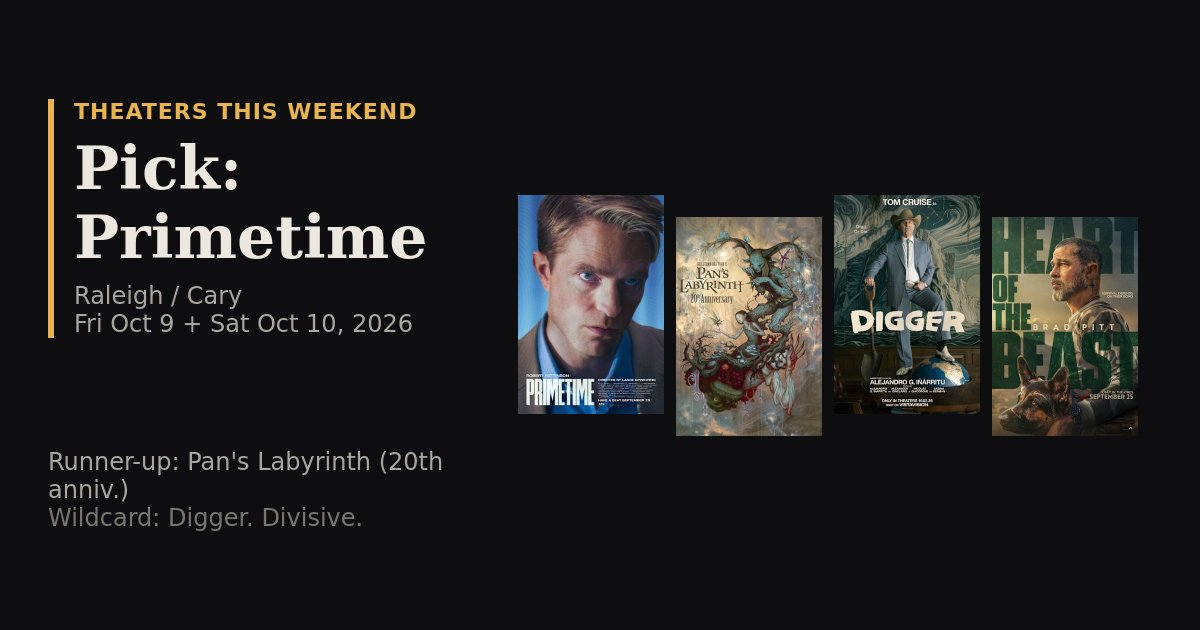
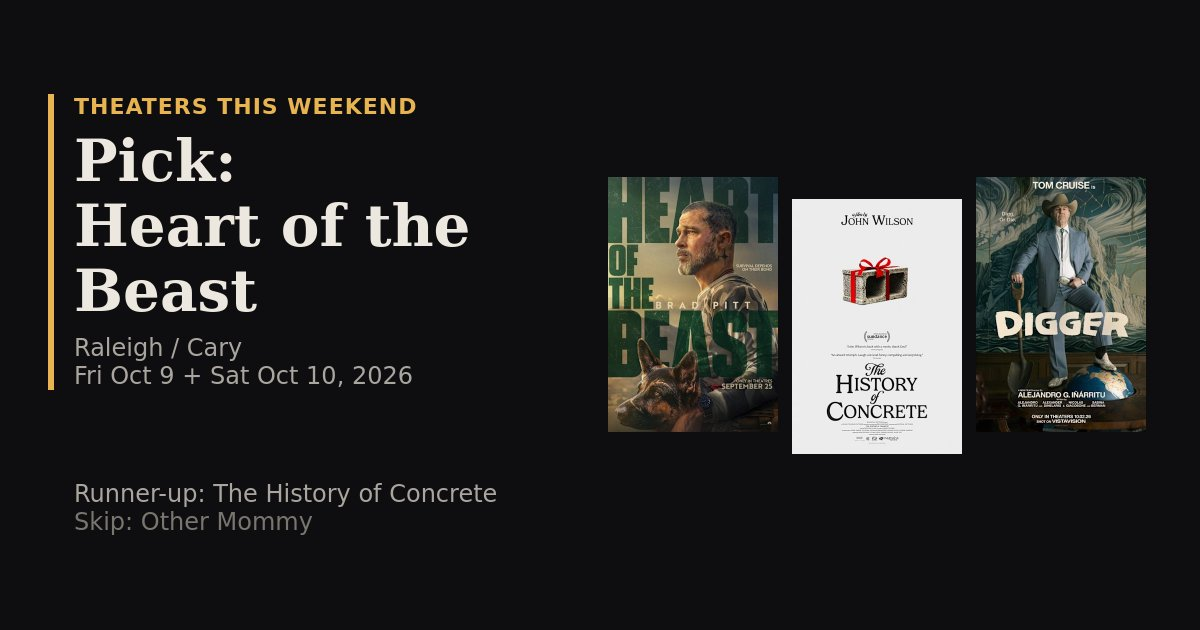
theaters 2026-10-09: repick after Primetime seen

Changed region(s): [[0.4317, 0.2714, 0.9558, 0.7238], [0.0308, 0.1508, 0.4008, 0.6333], [0.0308, 0.7238, 0.4008, 0.8444]]

diff --git a/theaters-2026-10-09.html b/theaters-2026-10-09.html
@@ -1,10 +1,10 @@
 <!doctype html><html lang="en"><head><meta charset="utf-8"><meta name="viewport" content="width=device-width,initial-scale=1">
 <title>Theaters: Oct 9-10</title>
-<meta name="description" content="Pick: Primetime. Runner-up: Pan's Labyrinth 20th anniversary. Showtimes for Cary, Garner, Holly Springs, Raleigh.">
-<meta property="og:type" content="website"><meta property="og:title" content="Theaters this weekend: Primetime">
-<meta property="og:description" content="Pick: Primetime. Runner-up: Pan's Labyrinth 20th anniv. Wildcard: Digger. Showtimes inside.">
-<meta property="og:url" content="https://niggerfaggot.club/theaters-2026-10-09.html"><meta property="og:image" content="https://niggerfaggot.club/og/theaters-2026-10-09.jpg"><meta property="og:image:width" content="1200"><meta property="og:image:height" content="630">
-<meta name="twitter:card" content="summary_large_image"><meta name="twitter:image" content="https://niggerfaggot.club/og/theaters-2026-10-09.jpg">
+<meta name="description" content="Pick: Heart of the Beast. Runner-up: The History of Concrete. Showtimes for Cary, Garner, Holly Springs, Raleigh.">
+<meta property="og:type" content="website"><meta property="og:title" content="Theaters this weekend: Heart of the Beast">
+<meta property="og:description" content="Pick: Heart of the Beast. Runner-up: The History of Concrete. Wildcard: Digger. Showtimes inside.">
+<meta property="og:url" content="https://niggerfaggot.club/theaters-2026-10-09.html"><meta property="og:image" content="https://niggerfaggot.club/og/theaters-2026-10-09.jpg?v=2"><meta property="og:image:width" content="1200"><meta property="og:image:height" content="630">
+<meta name="twitter:card" content="summary_large_image"><meta name="twitter:image" content="https://niggerfaggot.club/og/theaters-2026-10-09.jpg?v=2">
 <style>
 :root{--bg:#f6f4ef;--fg:#1b1a18;--mute:#6b675f;--line:#ddd8cc;--acc:#a8661a;--card:#fffdf8}
 @media (prefers-color-scheme:dark){:root{--bg:#0e0e10;--fg:#ece8df;--mute:#9a958b;--line:#2a2927;--acc:#e8b450;--card:#161618}}
@@ -23,17 +23,17 @@ th,td{text-align:left;padding:7px 8px;border-bottom:1px solid var(--line)}th{col
 h4{margin:1.2rem 0 .2rem}ul{padding-left:1.1rem}li{margin:.35rem 0}.small{color:var(--mute);font-size:.85rem}
 </style></head><body><main>
 <div class="kicker">Theaters · Raleigh/Cary · Fri Oct 9 + Sat Oct 10, 2026</div>
-<h1>Go see Primetime.</h1>
-<div class="bluf"><b>BLUF:</b> Primetime, 5:30 or 8:15 at Fenton. Pattinson as Chris Hansen, A24, Ari Aster producing, deadpan dark satire, 89% RT. Runner-up is the Pan's Labyrinth 20th anniversary re-release at Regal. No new Wes Anderson this week.</div>
-<p>Thin slate otherwise. The two biggest new openings are a Colleen Hoover adaptation (Verity, 41% RT, C+ CinemaScore) and a jump-scare horror movie with no reviews yet. Primetime is in its third weekend, so this is probably the last weekend it has good evening times everywhere.</p>
-<h2>Ranked</h2><article class="film"><img src="theaters/2026-10-09/primetime.jpg" alt="Primetime poster" width="400" height="600"><div><h3>Primetime <span class="tag">PICK</span></h3><p class="meta">1h50m · R · Lance Oppenheim · A24, produced by Ari Aster</p><p class="hook">Robert Pattinson as Chris Hansen in 2006, building To Catch a Predator, until the show eats itself.</p><p class="scores">RT 89% · Metacritic 69 · IMDb 7.0 · Letterboxd 3.8 · CinemaScore n/a · 3rd weekend</p><p>Dead center of the lane. Deadpan dark comedy with horror-style shock cuts, aimed at reality TV and gotcha journalism. Boston Globe compares it to To Die For and Nightcrawler. Main knock: gets busy and loses steam in the last act, and the subject matter is grim. Not a cute date movie, a good one.</p></div></article><article class="film"><img src="theaters/2026-10-09/pans.jpg" alt="Pan's Labyrinth (20th anniversary) poster" width="400" height="600"><div><h3>Pan's Labyrinth (20th anniversary) <span class="tag">RUNNER-UP</span></h3><p class="meta">1h58m · R · Guillermo del Toro · Spanish, subtitled</p><p class="hook">1944 Spain. A girl escapes her fascist stepfather into a fairy-tale underworld that is worse.</p><p class="scores">RT 95% / 91% audience · Metacritic 98</p><p>Re-release, not a remake, so it clears the filter. Elevated dark fantasy-horror with a real auteur behind it. If you've only seen it on a TV, this is the better night than most of the new stuff. Limited showings, mostly Regal.</p></div></article><article class="film"><img src="theaters/2026-10-09/digger.jpg" alt="Digger poster" width="400" height="600"><div><h3>Digger <span class="tag">WILDCARD</span></h3><p class="meta">2h9m · R · Alejandro G. Iñárritu</p><p class="hook">Tom Cruise in prosthetics as an oil tycoon trying to undo a global catastrophe he caused.</p><p class="scores">RT 52% / 71% audience · CinemaScore C+ · opened $8M on a reported $130M+ budget</p><p>On paper it's exactly your kind of swing: original, auteur, Strangelove-style satire. In practice critics split hard. IndieWire calls it detached, BBC loved it as a love-it-or-hate-it folly. There's a 10-minute climate monologue everyone mentions. Go only if you want to argue about it on the drive home. It'll lose screens fast.</p></div></article><article class="film"><img src="theaters/2026-10-09/concrete.jpg" alt="The History of Concrete poster" width="400" height="600"><div><h3>The History of Concrete</h3><p class="meta">1h42m · John Wilson (How To with John Wilson)</p><p class="hook">Wilson takes a Hallmark-movie writing workshop and tries to use it to pitch a documentary about concrete.</p><p class="scores">RT 97% / 75% audience · Metacritic 81 · Letterboxd 4.0</p><p>Funniest thing playing, and it's a doc. Only at Alamo Raleigh: Fri 6:00, Sat 7:00 and 10:00. Strong pick if you've seen Primetime.</p></div></article><article class="film"><img src="theaters/2026-10-09/beast.jpg" alt="Heart of the Beast poster" width="400" height="600"><div><h3>Heart of the Beast</h3><p class="meta">1h41m · PG-13 · David Ayer</p><p class="hook">Retired Special Forces vet (Brad Pitt) and his combat dog survive a plane crash in the Alaska bush.</p><p class="scores">RT 85% / 94% audience · Metacritic 69 · CinemaScore A-</p><p>The original crowd-pleaser of the slate. Audiences love it. It's a sincere survival-and-dog movie, no directorial voice to speak of. Fine if Bekah wants the easy one. Expect to cry about the dog.</p></div></article><article class="film"><img src="theaters/2026-10-09/mommy.jpg" alt="Other Mommy poster" width="400" height="600"><div><h3>Other Mommy</h3><p class="meta">1h33m · R · Rob Savage · Jessica Chastain · prod. James Wan</p><p class="hook">A monster poses as a kid's mother. Opens this Friday.</p><p class="scores">No critic scores posted yet</p><p>Savage says it has about 50 jump scares. That's the Blumhouse lane, not the Eggers/Aster lane. Skip unless reviews surprise.</p></div></article>
-<p class="small"><b>Cut on the rules:</b> The Social Reckoning (Sorkin's Social Network follow-up), Resident Evil (reboot, even at 96%), Practical Magic 2, Spider-Man: Brand New Day, Endgame re-release, Angel and the Badman (remake), Forgotten Island (animated). <b>Cut on quality:</b> Verity (Michael Showalter, 41% RT, Metacritic 45, C+).</p>
+<h1>Heart of the Beast, or stay home.</h1>
+<div class="bluf"><b>BLUF:</b> Heart of the Beast, 7:05 at Regal White Oak. It's the only new movie with a 94% audience score and an A- CinemaScore, which makes it the safe date night. If you want your movie instead, it's The History of Concrete at Alamo. No new Wes Anderson.</div>
+<p>Thin slate. You've already seen Primetime and Resident Evil. The biggest new openings are a Colleen Hoover adaptation (Verity, 41% RT, C+ CinemaScore) and Other Mommy, which reviewed badly.</p>
+<h2>Ranked</h2><article class="film"><img src="theaters/2026-10-09/beast.jpg" alt="Heart of the Beast poster" width="400" height="600"><div><h3>Heart of the Beast <span class="tag">PICK</span></h3><p class="meta">1h41m · PG-13 · David Ayer (Fury)</p><p class="hook">Retired Special Forces vet (Brad Pitt) and his combat dog survive a plane crash in the Alaska bush.</p><p class="scores">RT 85% / 94% audience · Metacritic 69 · CinemaScore A-</p><p>The pick that works for both of you. Original, not a franchise, and the audience numbers are the best on the slate. It's a sincere survival-and-dog movie with no real directorial voice, so it won't be your favorite, but it's the opposite of Primetime: warm, simple, built for a crowd. Bekah: high odds. Expect to cry about the dog.</p></div></article><article class="film"><img src="theaters/2026-10-09/concrete.jpg" alt="The History of Concrete poster" width="400" height="600"><div><h3>The History of Concrete <span class="tag">RUNNER-UP</span></h3><p class="meta">1h42m · John Wilson (How To with John Wilson)</p><p class="hook">Wilson takes a Hallmark-movie writing workshop and tries to use it to pitch a documentary about concrete.</p><p class="scores">RT 97% / 75% audience · Metacritic 81 · Letterboxd 4.0</p><p>Best movie playing for your taste. Deadpan, weird, funny, and warmer than Primetime. Only at Alamo Raleigh. Bekah: depends on whether she liked the HBO show. If she didn't, skip it.</p></div></article><article class="film"><img src="theaters/2026-10-09/digger.jpg" alt="Digger poster" width="400" height="600"><div><h3>Digger <span class="tag">WILDCARD</span></h3><p class="meta">2h9m · R · Alejandro G. Iñárritu</p><p class="hook">Tom Cruise in prosthetics as an oil tycoon trying to undo a global catastrophe he caused.</p><p class="scores">RT 52% / 71% audience · CinemaScore C+ · opened $8M on a reported $130M+ budget</p><p>Original auteur satire, on paper right in your lane. Critics split hard, audiences gave it a C+, and there's a 10-minute climate monologue everyone mentions. Bekah: low odds. Primetime already taught that lesson.</p></div></article><article class="film"><img src="theaters/2026-10-09/mommy.jpg" alt="Other Mommy poster" width="400" height="600"><div><h3>Other Mommy</h3><p class="meta">1h33m · R · Rob Savage · Jessica Chastain · prod. James Wan</p><p class="hook">A monster poses as a little girl's mother. Opens Friday.</p><p class="scores">Early reviews 1.5 to 2.5 out of 5 · RT score not posted yet</p><p>Reviews landed Wednesday and they're bad: predictable jump scares, weak CGI, a finale that got laughs. Chastain is the one thing people praise. Skip.</p></div></article>
+<p class="small"><b>Already seen:</b> Primetime, Resident Evil, Toy Story 5. <b>Cut:</b> The Social Reckoning (Social Network follow-up, 64% RT, fails the franchise test), Practical Magic 2, Angel and the Badman (remake), Verity (41% RT, C+). Spider-Man: Brand New Day passes the new franchise test on scores (90/97) if you haven't seen it. <b>Re-releases:</b> Pan's Labyrinth 20th anniversary is at Regal if you ever want it.</p>
 <h2>Showtimes</h2>
-<p class="small">Evening shows only, closest theater first. Times from Atom Tickets and Fandango, pulled Thursday. *AMC Holly Springs is a full dine-in theater, same format as CinéBistro, so it's last resort.</p>
-<h4>Primetime</h4><div class="tw"><table><thead><tr><th>Theater</th><th>Fri 10/9</th><th>Sat 10/10</th></tr></thead><tbody><tr><td>Paragon Fenton, Cary</td><td>5:30 · 8:15</td><td>5:30 · 8:15</td></tr><tr><td>Regal White Oak, Garner</td><td>6:20 · 9:20</td><td>6:20 · 9:20</td></tr><tr><td>AMC Dine-In Holly Springs*</td><td>7:15 · 10:15</td><td>7:15 · 10:15</td></tr><tr><td>Regal Crossroads, Cary</td><td>6:30 · 9:30</td><td>6:30 · 9:30</td></tr><tr><td>Regal North Hills, Raleigh</td><td>6:10 · 9:00</td><td>6:30 · 9:15</td></tr><tr><td>Alamo Drafthouse Raleigh</td><td>6:45 · 9:45</td><td>7:15 · 10:30</td></tr></tbody></table></div>
-<h4>Pan's Labyrinth 20th</h4><div class="tw"><table><thead><tr><th>Theater</th><th>Fri 10/9</th><th>Sat 10/10</th></tr></thead><tbody><tr><td>Paragon Fenton, Cary</td><td>not listed</td><td>not listed</td></tr><tr><td>Regal White Oak, Garner</td><td>7:10 · 10:20</td><td>7:10 · 10:20</td></tr><tr><td>AMC Dine-In Holly Springs</td><td>not playing</td><td>not playing</td></tr><tr><td>Regal Crossroads, Cary</td><td>7:15 · 10:35</td><td>7:15 · 10:35</td></tr><tr><td>Regal North Hills, Raleigh</td><td>7:00</td><td>7:00</td></tr><tr><td>Alamo Drafthouse Raleigh</td><td>7:15</td><td>2:15 only</td></tr></tbody></table></div>
+<p class="small">Evening shows only, closest theater first. Fenton isn't showing Heart of the Beast on Fandango. Times from Atom Tickets and Fandango, pulled Thursday. *AMC Holly Springs is a full dine-in theater, same format as CinéBistro, so it's last resort.</p>
+<h4>Heart of the Beast</h4><div class="tw"><table><thead><tr><th>Theater</th><th>Fri 10/9</th><th>Sat 10/10</th></tr></thead><tbody><tr><td>Paragon Fenton, Cary</td><td>not listed</td><td>not listed</td></tr><tr><td>Regal White Oak, Garner</td><td>7:05 · 9:45</td><td>7:05 · 9:45</td></tr><tr><td>AMC Dine-In Holly Springs*</td><td>7:45 · 10:30</td><td>7:45 · 10:30</td></tr><tr><td>Regal Crossroads, Cary</td><td>5:50 · 8:40</td><td>5:50 · 8:40</td></tr><tr><td>Regal North Hills, Raleigh</td><td>6:45 · 9:20</td><td>6:45 · 9:20</td></tr><tr><td>Alamo Drafthouse Raleigh</td><td>6:15 · 9:15</td><td>6:00 · 9:00</td></tr></tbody></table></div>
+<h4>The History of Concrete</h4><div class="tw"><table><thead><tr><th>Theater</th><th>Fri 10/9</th><th>Sat 10/10</th></tr></thead><tbody><tr><td>Alamo Drafthouse Raleigh</td><td>6:00 (4:30 matinee)</td><td>7:00 · 10:00</td></tr><tr><td>Everywhere else</td><td>not playing</td><td>not playing</td></tr></tbody></table></div>
 <h4>Digger</h4><div class="tw"><table><thead><tr><th>Theater</th><th>Fri 10/9</th><th>Sat 10/10</th></tr></thead><tbody><tr><td>Paragon Fenton, Cary</td><td>11:15a only</td><td>11:15a only</td></tr><tr><td>Regal White Oak, Garner</td><td>matinees only</td><td>matinees only</td></tr><tr><td>AMC Dine-In Holly Springs*</td><td>7:00 · 10:15</td><td>7:00 · 10:15</td></tr><tr><td>Regal Crossroads, Cary</td><td>6:40 · 10:00</td><td>6:40 · 10:00</td></tr><tr><td>Regal North Hills, Raleigh</td><td>6:25 · 9:30</td><td>6:25 · 9:30</td></tr><tr><td>Alamo Drafthouse Raleigh</td><td>7:00 · 9:00</td><td>6:45 · 10:15</td></tr></tbody></table></div>
-<p><b>Regal military discount:</b> box office only, show ID. Doesn't work online. If you go Pan's Labyrinth, Regal has most of the evening shows, so buy at the window.</p>
+<p><b>Regal military discount:</b> box office only, show ID. Doesn't work online. The pick's best time is at Regal White Oak, so buy at the window.</p>
 <h2>Next 2-3 weeks</h2>
 <ul>
 <li><b>Fjord</b> (Cristian Mungiu, Palme d'Or winner, Sebastian Stan, Renate Reinsve). Opens limited Oct 9. Crossroads and North Hills have it listed with no times yet. 2h26m, Metacritic 81.</li>
